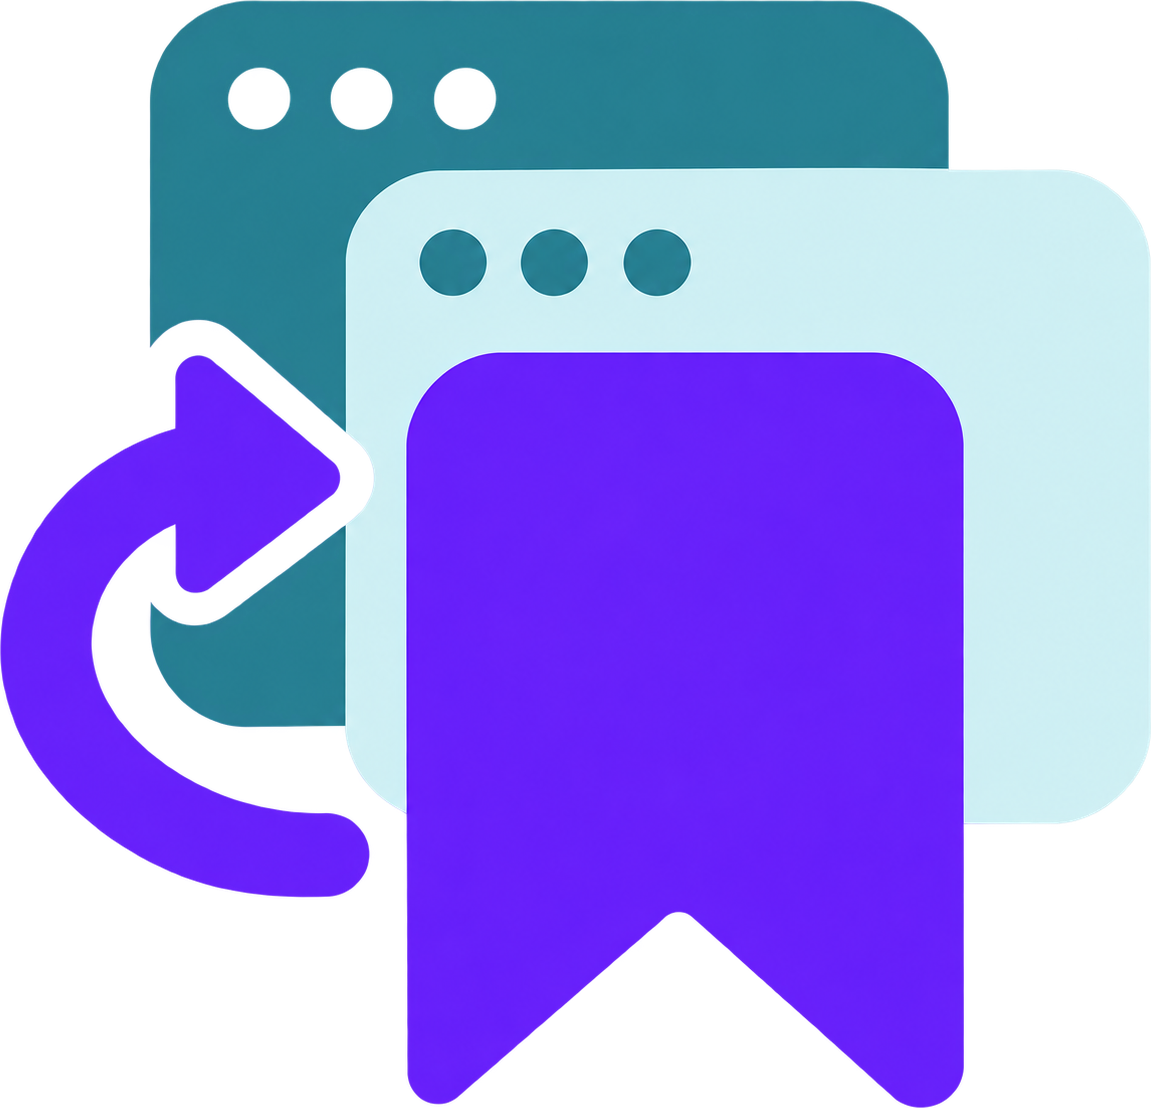
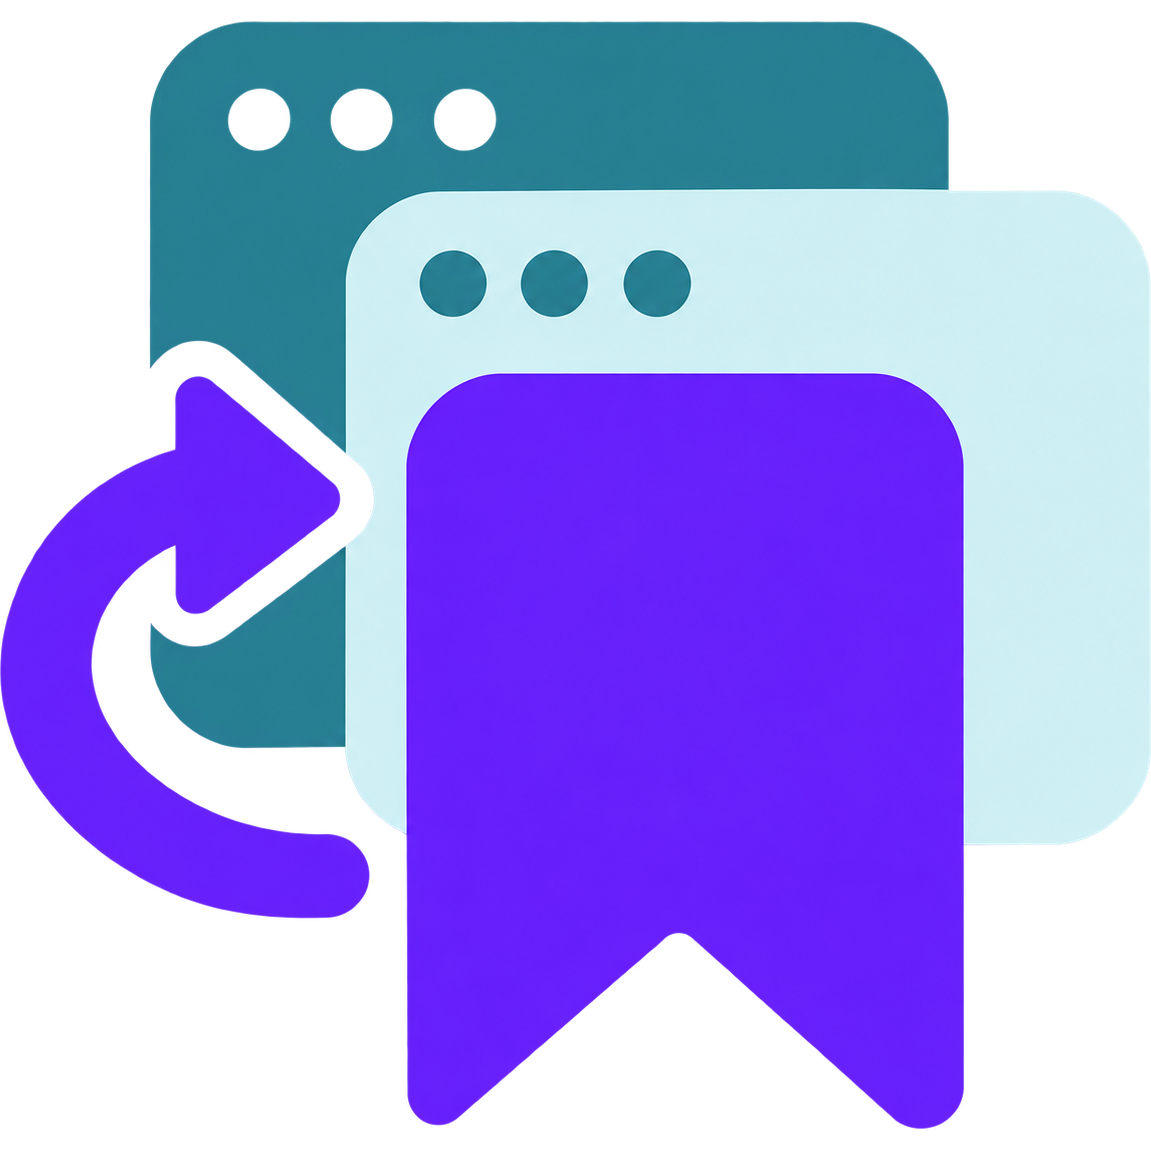
Feature/publiching (#3)

diff --git a/README.md b/README.md
@@ -6,11 +6,38 @@ Automatically display the bookmark toolbar assigned to the current Floorp worksp
 
 ## Installation
 
-1. Download the `.xpi` file from the [latest GitHub Release](https://github.com/just-better-code/floorp-workspace-bookmark-switcher/releases/latest), under **Assets**.
-2. In Floorp, open **Add-ons and Themes** (`about:addons`).
-3. Open the gear menu, choose **Install Add-on From File…**, and select the downloaded `.xpi`.
+This extension is distributed as an **unsigned XPI** because its privileged experimental APIs cannot use standard AMO signing.
 
-This is an unsigned extension using privileged experimental APIs. Your Floorp profile must permit unsigned experimental extensions, including `extensions.experiments.enabled=true`. Publishing an XPI on GitHub does not provide a Mozilla signature.
+### Install the XPI
+
+1. Download `bookmark-toolbar-autoswitch-<version>.xpi` from the [latest GitHub Release](https://github.com/just-better-code/floorp-workspace-bookmark-switcher/releases/latest), under **Assets**. Choose the `.xpi`, not the source ZIP or `updates.json`.
+2. Open **Add-ons and Themes** (`about:addons`) in Floorp.
+3. Open the gear menu, choose **Install Add-on From File…**, and select the downloaded `.xpi`.
+4. Review the installation prompt and confirm installation.
+
+### Verify the installation
+
+1. Confirm **Floorp Bookmark Toolbar Autoswitch** is enabled in **Add-ons and Themes**.
+2. With Floorp workspaces enabled and the bookmarks toolbar visible, check that the selector appears at the right end of the toolbar.
+3. Restart Floorp and confirm the extension remains enabled. XPI installation is persistent; you do not need to reload it manually after each restart.
+
+### If installation or startup does not work
+
+If Floorp rejects the XPI as unsigned or blocks experimental APIs:
+
+1. Open `about:config` in Floorp and continue to the preferences page.
+2. Check these **Boolean** preferences and set them as shown, creating them if absent:
+
+   | Preference | Value |
+   | --- | --- |
+   | `extensions.experiments.enabled` | `true` |
+   | `xpinstall.signatures.required` | `false` |
+
+3. Fully quit Floorp, start it again, and retry the installation or enable the extension.
+
+These settings apply to the entire profile, not just this add-on. Install only XPIs from sources you trust. A build or managed profile that enforces signing may ignore or lock these preferences; creating them does not override that restriction. GitHub publication does not provide a Mozilla signature.
+
+If the extension shows a compatibility notice, confirm you are using Floorp. These settings do not enable support for Firefox.
 
 Extension ID: `bookmark-toolbar-autoswitch@just-better-code`.
 

diff --git a/FLOORP-DEVELOPMENT.md b/FLOORP-DEVELOPMENT.md
@@ -37,6 +37,6 @@ The workflow uses GitHub's built-in token with `contents: write`; repository or 
 
 ## Identity
 
-Name: Floorp Bookmark Toolbar Autoswitch. Version: `0.1.1`. ID: `bookmark-toolbar-autoswitch@just-better-code`.
+Name: Floorp Bookmark Toolbar Autoswitch. Version: `0.1.2`. ID: `bookmark-toolbar-autoswitch@just-better-code`.
 
 MIT attribution is retained in LICENSE. No browser profile is part of the extension.

diff --git a/CHANGELOG.md b/CHANGELOG.md
@@ -1,5 +1,9 @@
 # Changelog
 
+## 0.1.2
+
+- Make the extension icon square with minimal transparent margins, preserving the artwork and its proportions.
+
 ## 0.1.1
 
 - Use the selected workspace/bookmark icon with tightly cropped transparent margins.
